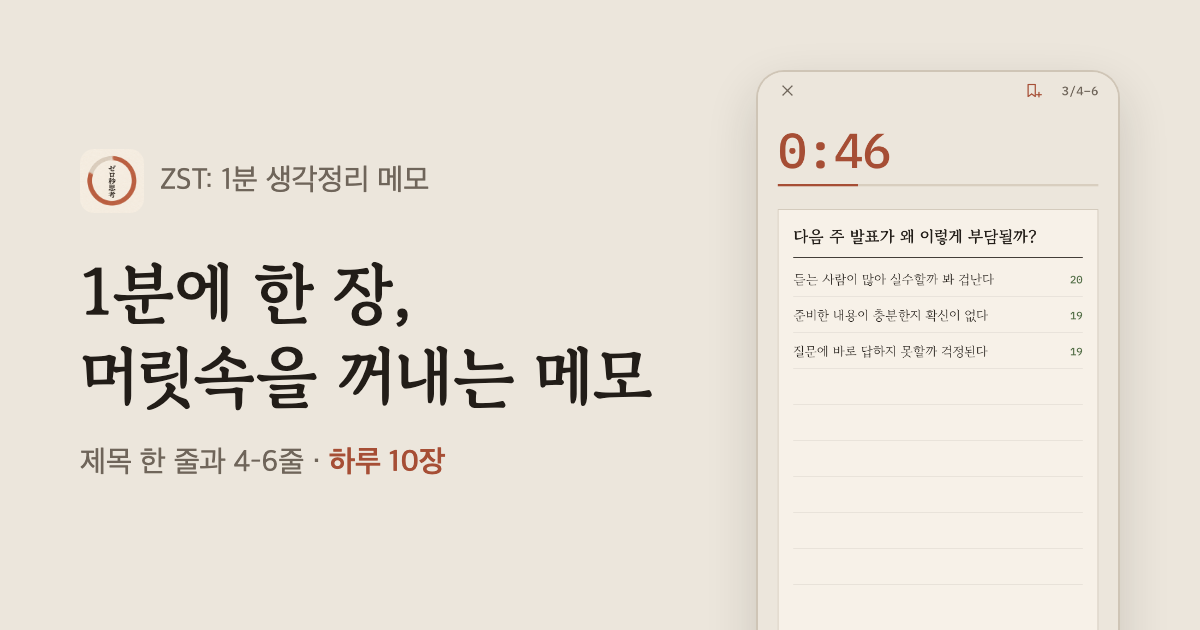
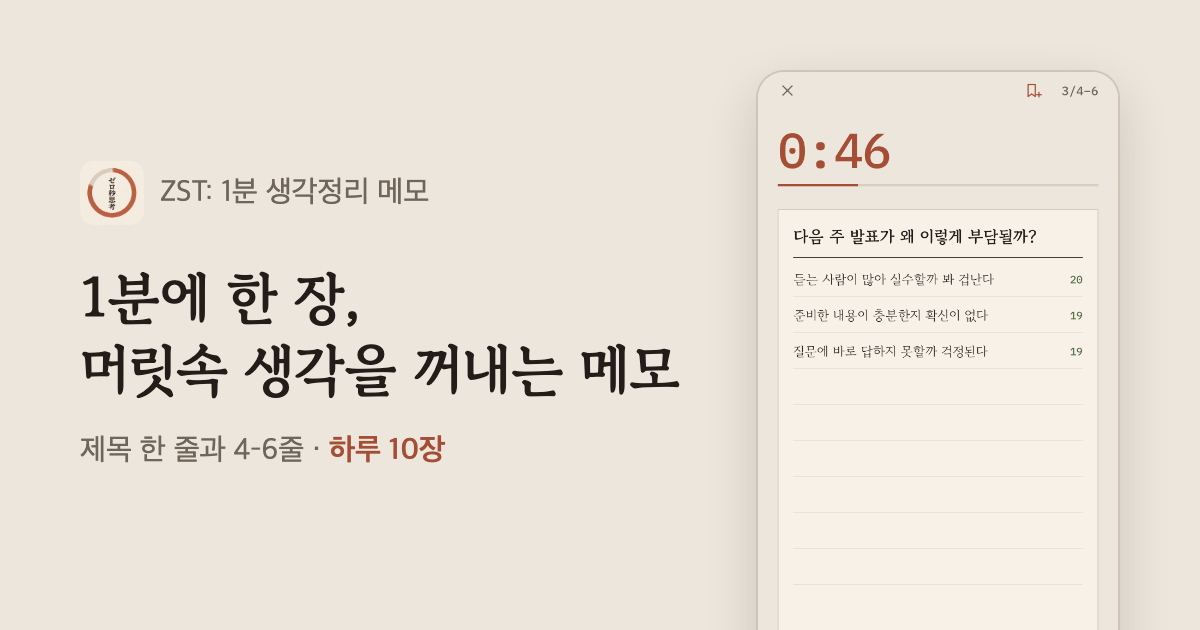
Landing copy from review: headline "머릿속 생각을 꺼내는 메모", first caption
- Headline and og/twitter description: 머릿속을 → 머릿속 생각을; keep 꺼내는 메모 on one line at phone width
- First screenshot caption ends with 의 본문
- Re-rendered og.png and re-subset the headline font for the new glyphs

Claude-Session: https://claude.ai/code/session_0155S75hkNjSjBaKHx9JjrDB

diff --git a/index.html b/index.html
@@ -16,7 +16,7 @@
 <meta property="og:locale" content="ko_KR">
 <meta property="og:site_name" content="ZST">
 <meta property="og:title" content="ZST: 1분 생각정리 메모">
-<meta property="og:description" content="1분에 한 장, 머릿속을 꺼내는 메모. 제목 한 줄과 4–6줄, 하루 10장.">
+<meta property="og:description" content="1분에 한 장, 머릿속 생각을 꺼내는 메모. 제목 한 줄과 4–6줄, 하루 10장.">
 <meta property="og:url" content="https://yyc9920.github.io/zst-memo/">
 <meta property="og:image" content="https://yyc9920.github.io/zst-memo/assets/og.png">
 <meta property="og:image:width" content="1200">
@@ -24,7 +24,7 @@
 <meta property="og:image:alt" content="ZST 쓰기 화면: 1분 타이머와 제목, 세 줄">
 <meta name="twitter:card" content="summary_large_image">
 <meta name="twitter:title" content="ZST: 1분 생각정리 메모">
-<meta name="twitter:description" content="1분에 한 장, 머릿속을 꺼내는 메모. 제목 한 줄과 4–6줄, 하루 10장.">
+<meta name="twitter:description" content="1분에 한 장, 머릿속 생각을 꺼내는 메모. 제목 한 줄과 4–6줄, 하루 10장.">
 <meta name="twitter:image" content="https://yyc9920.github.io/zst-memo/assets/og.png">
 
 <style>
@@ -57,7 +57,7 @@
   .brand img { width: 44px; height: 44px; border-radius: 10px; }
   h1 {
     font-family: "Gowun Batang", "AppleMyungjo", serif; font-weight: 700;
-    font-size: clamp(2rem, 7vw, 2.9rem); line-height: 1.3; letter-spacing: -.01em;
+    font-size: clamp(2rem, 7vw, 2.9rem); line-height: 1.3; letter-spacing: -.01em; text-wrap: balance;
     margin: 1.75rem 0 1rem;
   }
   .lead { color: var(--sub); margin: 0 0 2rem; max-width: 32rem; }
@@ -102,7 +102,7 @@
 <main>
   <div class="brand"><img src="./assets/icon-180.png" alt="" width="44" height="44">ZST: 1분 생각정리 메모</div>
 
-  <h1>1분에 한 장,<br>머릿속을 꺼내는 메모</h1>
+  <h1>1분에 한 장,<br>머릿속 생각을 <span class="nw">꺼내는 메모</span></h1>
   <p class="lead">생각이 많아 머리가 무거울 때, 제목 한 줄과 <span class="nw">4–6줄</span>로 1분 안에 꺼내 보세요. 하루 10장이면 막연한 고민이 할 일로 바뀌어요.</p>
 
   <a class="badge" href="https://apps.apple.com/kr/app/zst/id6812218988">
@@ -111,7 +111,7 @@
   </a>
 
   <ul class="shots">
-    <li><figure><img src="./assets/shot-write.webp" alt="쓰기 화면: 1분 타이머, 제목과 세 줄" width="600" height="1304" loading="lazy"><figcaption>1분 타이머, 제목 한 줄과 <span class="nw">4–6줄</span></figcaption></figure></li>
+    <li><figure><img src="./assets/shot-write.webp" alt="쓰기 화면: 1분 타이머, 제목과 세 줄" width="600" height="1304" loading="lazy"><figcaption>1분 타이머, 제목 한 줄과 <span class="nw">4–6줄</span>의 본문</figcaption></figure></li>
     <li><figure><img src="./assets/shot-today.webp" alt="오늘 화면: 10장 중 3장, 추천 제목" width="600" height="1304" loading="lazy"><figcaption>하루 10장, 막히면 제목 추천</figcaption></figure></li>
     <li><figure><img src="./assets/shot-review.webp" alt="리뷰 화면: 3개월 전에 쓴 메모" width="600" height="1304" loading="lazy"><figcaption>3개월·6개월 뒤 다시 읽기</figcaption></figure></li>
   </ul>
